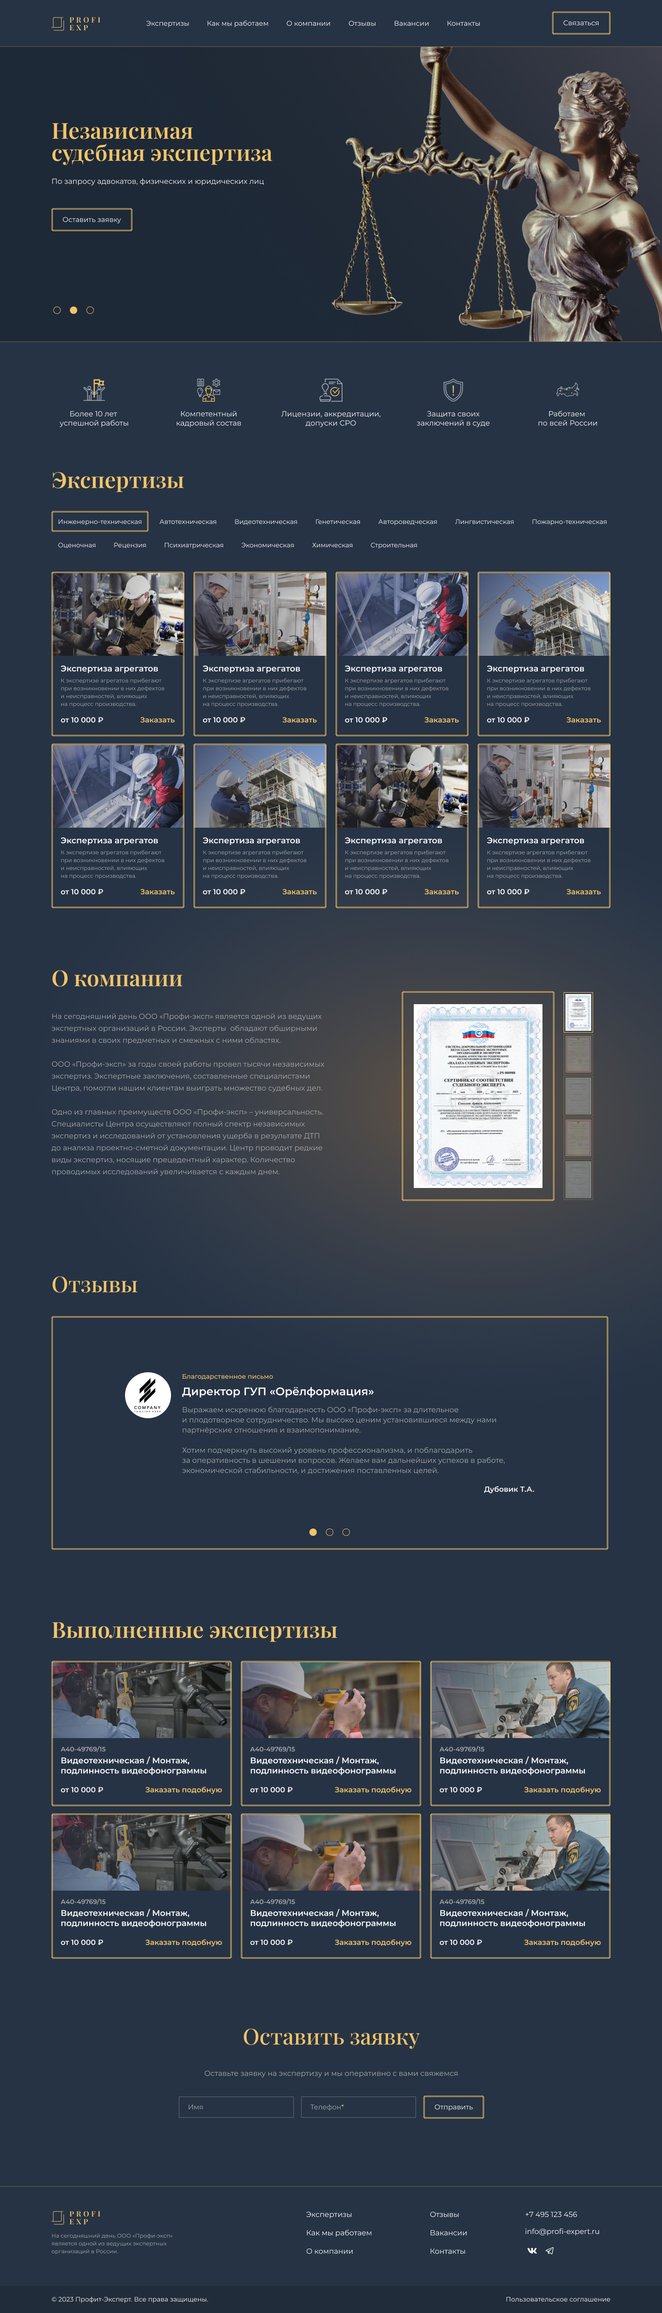
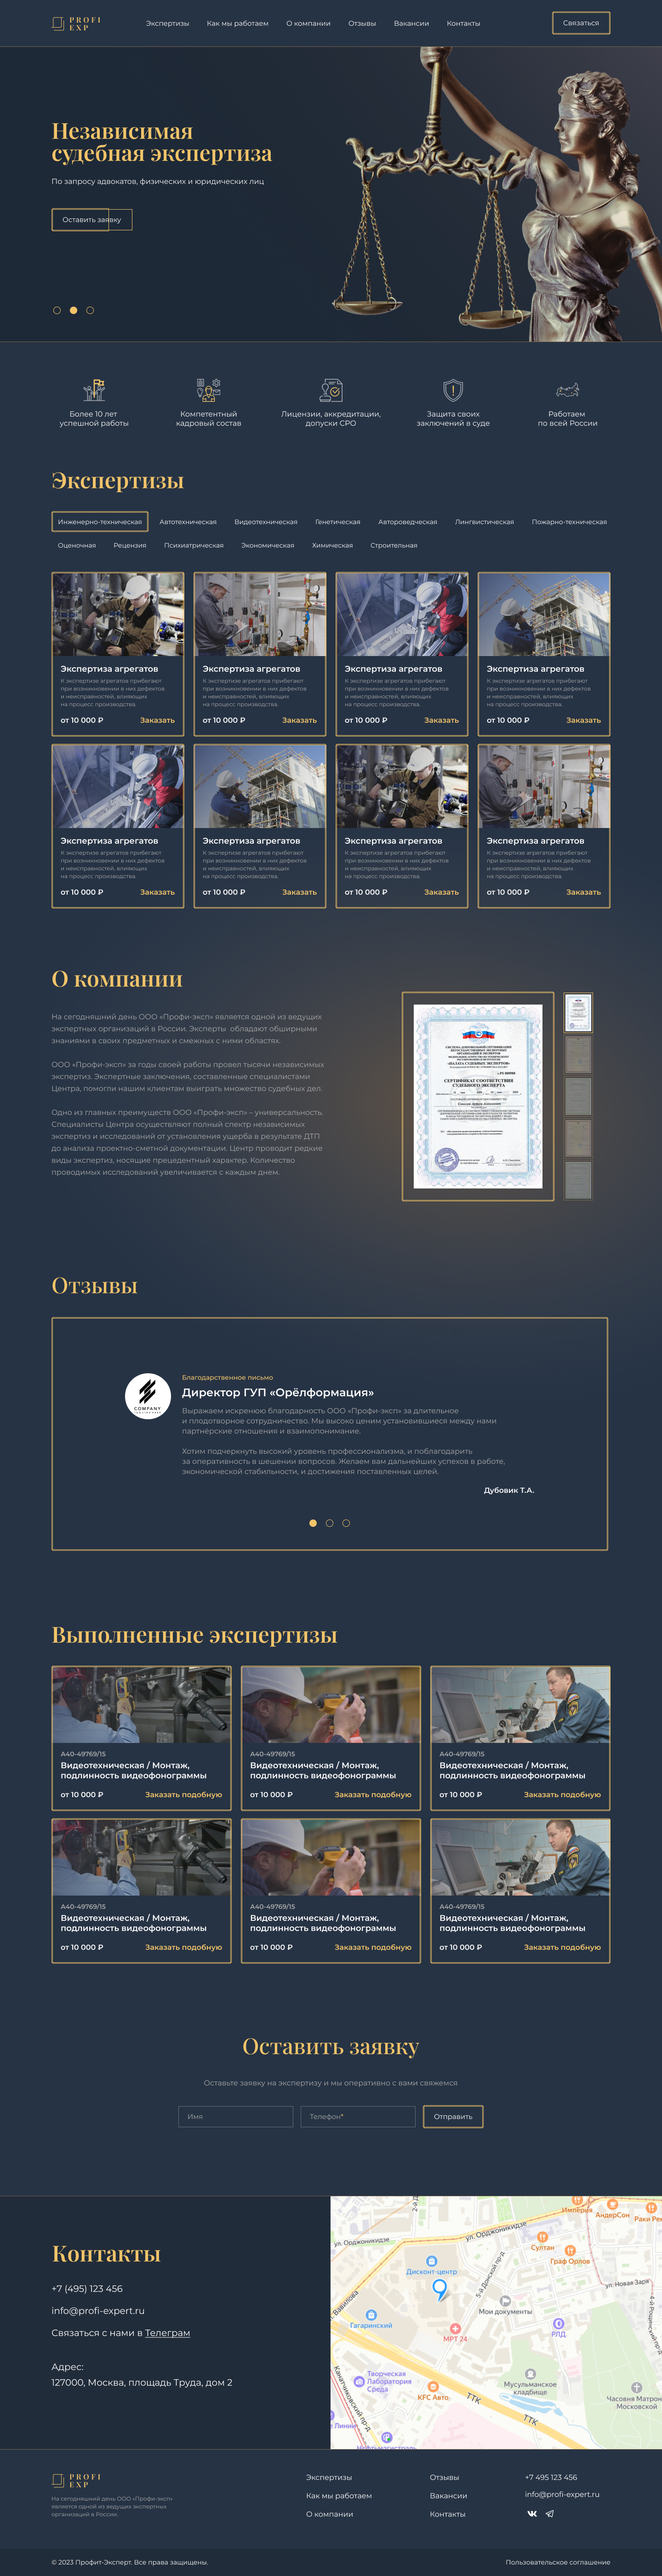
corrected for pixel perfect

diff --git a/src/html/home/_hero.html b/src/html/home/_hero.html
@@ -11,7 +11,7 @@
                         </h3>
                         <div class="hero__text">
                             <p>
-                                По запросу адвокатов, физических и юридических лиц
+                                По запросу адвокатов, физических и юридических лиц
                             </p>
                         </div>
                         <button class="hero__button button" type="button">
@@ -28,7 +28,7 @@
                         </h3>
                         <div class="hero__text">
                             <p>
-                                По запросу адвокатов, физических и юридических лиц
+                                По запросу адвокатов, физических и юридических лиц
                             </p>
                         </div>
                         <button class="hero__button button" type="button">
@@ -45,7 +45,7 @@
                         </h3>
                         <div class="hero__text">
                             <p>
-                                По запросу адвокатов, физических и юридических лиц
+                                По запросу адвокатов, физических и юридических лиц
                             </p>
                         </div>
                         <button class="hero__button button" type="button">

diff --git a/src/styles/home/_reviews.scss b/src/styles/home/_reviews.scss
@@ -1,16 +1,16 @@
 .reviews {
-	@include adaptive-value-base('padding-top', 150, 80, 1);
-	@include adaptive-value-base('padding-bottom', 150, 112, 1);
+	@include adaptive-value-base('padding-top', 120, 80, 1);
+	@include adaptive-value-base('padding-bottom', 161, 87, 1);
 
 	&__title {
-		@include adaptive-value-base('margin-bottom', 42, 24, 1);
+		@include adaptive-value-base('margin-bottom', 47, 24, 1);
 	}
 
 	&__wrapper {
 		position: relative;
 
 		@include mq(md) {
-			padding-bottom: 24px;
+			padding-bottom: 18px;
 		}
 	}
 
@@ -19,28 +19,29 @@
 		display: flex;
 		align-items: center;
 		height: 100%;
-		min-height: 504px;
+		min-height: 500px;
 		padding: 25px 0;
 		border: 1px solid $yellow-400;
 		@include custom-border;
 
 		&::before {
 			@include mq(md) {
-				height: calc(100% + 6px - 24px);
+				height: calc(100% + 6px - 18px);
 			}
 		}
 
 		@include mq(md) {
 			min-height: auto;
+			padding: 39px 0 26px;
 		}
 	}
 
 	.swiper-horizontal > .swiper-pagination-bullets {
-		bottom: 26px;
+		bottom: 45px;
 		justify-content: center;
 
 		@include mq(md) {
-			bottom: -24px;
+			bottom: -18px;
 		}
 	}
 }

diff --git a/src/styles/home/_about.scss b/src/styles/home/_about.scss
@@ -1,5 +1,5 @@
 .about {
-	@include adaptive-value-base('padding-top', 120, 80, 1);
+	@include adaptive-value-base('padding-top', 97, 80, 1);
 
 	&__wrapper {
 		position: relative;
@@ -26,9 +26,13 @@
 			}
 		}
 
+		@include mq(xl, min) {
+			padding-right: 40px;
+		}
+
 		@include mq(lg) {
 			flex-direction: column-reverse;
-			gap: 26px;
+			gap: 34px;
 			justify-content: flex-start;
 		}
 	}
@@ -44,7 +48,7 @@
 	&__text {
 		p {
 			&:not(:last-child) {
-				margin-bottom: 12px;
+				@include adaptive-value-base('margin-bottom', 30, 28, 1);
 			}
 		}
 	}
@@ -55,7 +59,7 @@
 		max-width: 416px;
 		height: 452px;
 		overflow: hidden;
-		transform: translateY(-41px);
+		transform: translateY(-36px);
 		@include adaptive-value-base('gap', 20, 14, 1);
 
 		@include mq(lg) {
@@ -68,8 +72,8 @@
 
 		picture {
 			display: inline-block;
-			height: 100%;
 			width: 100%;
+			height: 100%;
 		}
 	}
 
@@ -83,8 +87,8 @@
 		@include custom-border;
 
 		@include mq(sm) {
-			padding: 20px;
 			max-width: 266px;
+			padding: 20px;
 		}
 	}
 

diff --git a/src/styles/components/_footer.scss b/src/styles/components/_footer.scss
@@ -5,7 +5,7 @@
 	&__top {
 		position: relative;
 		@include adaptive-value-base('padding-top', 51, 40, 1);
-		@include adaptive-value-base('padding-bottom', 67, 40, 1);
+		@include adaptive-value-base('padding-bottom', 57, 40, 1);
 		z-index: 2;
 
 		&::before {
@@ -32,7 +32,7 @@
 		display: flex;
 		gap: 40px;
 		justify-content: space-between;
-		padding-right: 23px;
+		padding-right: 33px;
 
 		@include mq(xl) {
 			padding-right: 0;
@@ -40,6 +40,7 @@
 
 		@include mq(lg) {
 			flex-direction: column;
+			gap: 42px;
 		}
 	}
 
@@ -89,7 +90,7 @@
 
 	&__menu {
 		@include mq(sm) {
-			gap: 14px;
+			gap: 28px;
 		}
 	}
 
@@ -100,7 +101,7 @@
 	}
 
 	&__items {
-		@include adaptive-value-base('gap', 20, 14, 1);
+		@include adaptive-value-base('gap', 22, 14, 1);
 	}
 
 	&__connect {

diff --git a/src/styles/home/_expertises.scss b/src/styles/home/_expertises.scss
@@ -5,6 +5,10 @@
 		}
 	}
 
+	&__title {
+		@include adaptive-value-base('margin-bottom', 44, 24, 1);
+	}
+
 	&__wrapper {
 		padding-bottom: 30px;
 	}
@@ -12,7 +16,7 @@
 	&__filters {
 		display: flex;
 		flex-wrap: wrap;
-		gap: 8px;
+		gap: 10px;
 		margin-bottom: 40px;
 
 		@include mq(lg) {
@@ -23,8 +27,8 @@
 
 	&__button {
 		color: $grey-100;
-		font-size: 14px;
 		border-color: transparent;
+		@include adaptive-value-base('font-size', 14, 12, 1);
 		@include adaptive-value-base('padding-top', 12, 8, 1);
 		@include adaptive-value-base('padding-bottom', 12, 8, 1);
 		@include adaptive-value-base('padding-right', 12, 10, 1);
@@ -58,7 +62,7 @@
 
 		@include mq(lg) {
 			width: 100%;
-			@include adaptive-value-base('max-width', 289, 157, 1);
+			min-width: 158px;
 		}
 	}
 

diff --git a/src/styles/home/_contacts.scss b/src/styles/home/_contacts.scss
@@ -35,7 +35,7 @@
 	&__inner {
 		flex-shrink: 0;
 		width: calc((100% - (100% - 1256px)) / 2);
-		padding: 90px 20px 130px;
+		padding: 94px 20px 136px;
 
 		@include mq(xl) {
 			width: 45%;
@@ -43,13 +43,13 @@
 
 		@include mq(lg) {
 			width: 100%;
-			padding: 60px 20px 80px;
+			padding: 64px 20px 84px;
 		}
 	}
 
 	&__title {
-		margin-bottom: 35px;
-		font-size: 48px;
+		@include adaptive-value-base('margin-bottom', 41, 42, 1);
+		@include adaptive-value-base('font-size', 48, 48, 1);
 	}
 
 	&__items,
@@ -60,7 +60,7 @@
 	}
 
 	&__items {
-		gap: 24px;
+		gap: 26px;
 	}
 
 	&__item {
@@ -72,7 +72,7 @@
 	}
 
 	&__info {
-		gap: 50px;
+		gap: 53px;
 	}
 
 	&__address {

diff --git a/src/js/project/swipers/_about-slider.js b/src/js/project/swipers/_about-slider.js
@@ -7,7 +7,6 @@ export const aboutSlider = () => {
 
         const swiperSmall = new Swiper(sliderNav, {
             slidesPerView: 5,
-            // spaceBetween: 3,
             loopedSlides: 5,
             freeMode: true,
             direction: 'vertical',
@@ -24,7 +23,6 @@ export const aboutSlider = () => {
         });
 
         const swiperMain = new Swiper(sliderMain, {
-            // spaceBetween: 26,
             loopedSlides: 4,
 
             thumbs: {

diff --git a/src/styles/home/_connection.scss b/src/styles/home/_connection.scss
@@ -1,6 +1,10 @@
 .connection {
-	@include adaptive-value-base('padding-top', 150, 100, 1);
+	padding-top: 102px;
 	@include adaptive-value-base('padding-bottom', 150, 100, 1);
+
+	@include mq(sm) {
+		padding-top: 110px;
+	}
 
 	&__wrapper {
 		width: 100%;
@@ -14,7 +18,7 @@
 	}
 
 	&__title {
-		@include adaptive-value-base('margin-bottom', 40, 16, 1);
+		@include adaptive-value-base('margin-bottom', 46, 18, 1);
 	}
 
 	&__subtext {

diff --git a/src/styles/home/_advantages.scss b/src/styles/home/_advantages.scss
@@ -1,6 +1,10 @@
 .advantages {
 	@include adaptive-value-base('padding-top', 80, 35, 1);
-	@include adaptive-value-base('padding-bottom', 80, 70, 1);
+	padding-bottom: 63px;
+
+	@include mq(md) {
+		padding-bottom: 79px;
+	}
 
 	&__container {
 		@include mq(lg) {
@@ -9,7 +13,7 @@
 	}
 
 	&__items {
-		padding-bottom: 30px;
+		padding-bottom: 25px;
 	}
 
 	.simplebar-content {

diff --git a/src/html/home/_cases.html b/src/html/home/_cases.html
@@ -1,6 +1,6 @@
 <section class="cases">
     <div class="container">
-        <h2 class="title">
+        <h2 class="cases__title title">
             Выполненные экспертизы
         </h2>
         <ul class="cases__items" data-simplebar>

diff --git a/src/styles/components/header/_header.scss b/src/styles/components/header/_header.scss
@@ -1,5 +1,6 @@
 .header {
-	padding: 28px 0;
+	@include adaptive-value-base('padding-top', 28, 16, 1);
+	@include adaptive-value-base('padding-bottom', 28, 16, 1);
 	color: $grey-100;
 
 	&__wrapper {

diff --git a/src/styles/home/_hero.scss b/src/styles/home/_hero.scss
@@ -125,7 +125,7 @@
 	}
 
 	&__text {
-		@include adaptive-value-base('margin-bottom', 46, 40, 1);
+		@include adaptive-value-base('margin-bottom', 46, 33, 1);
 		color: $grey-100;
 
 		p {
